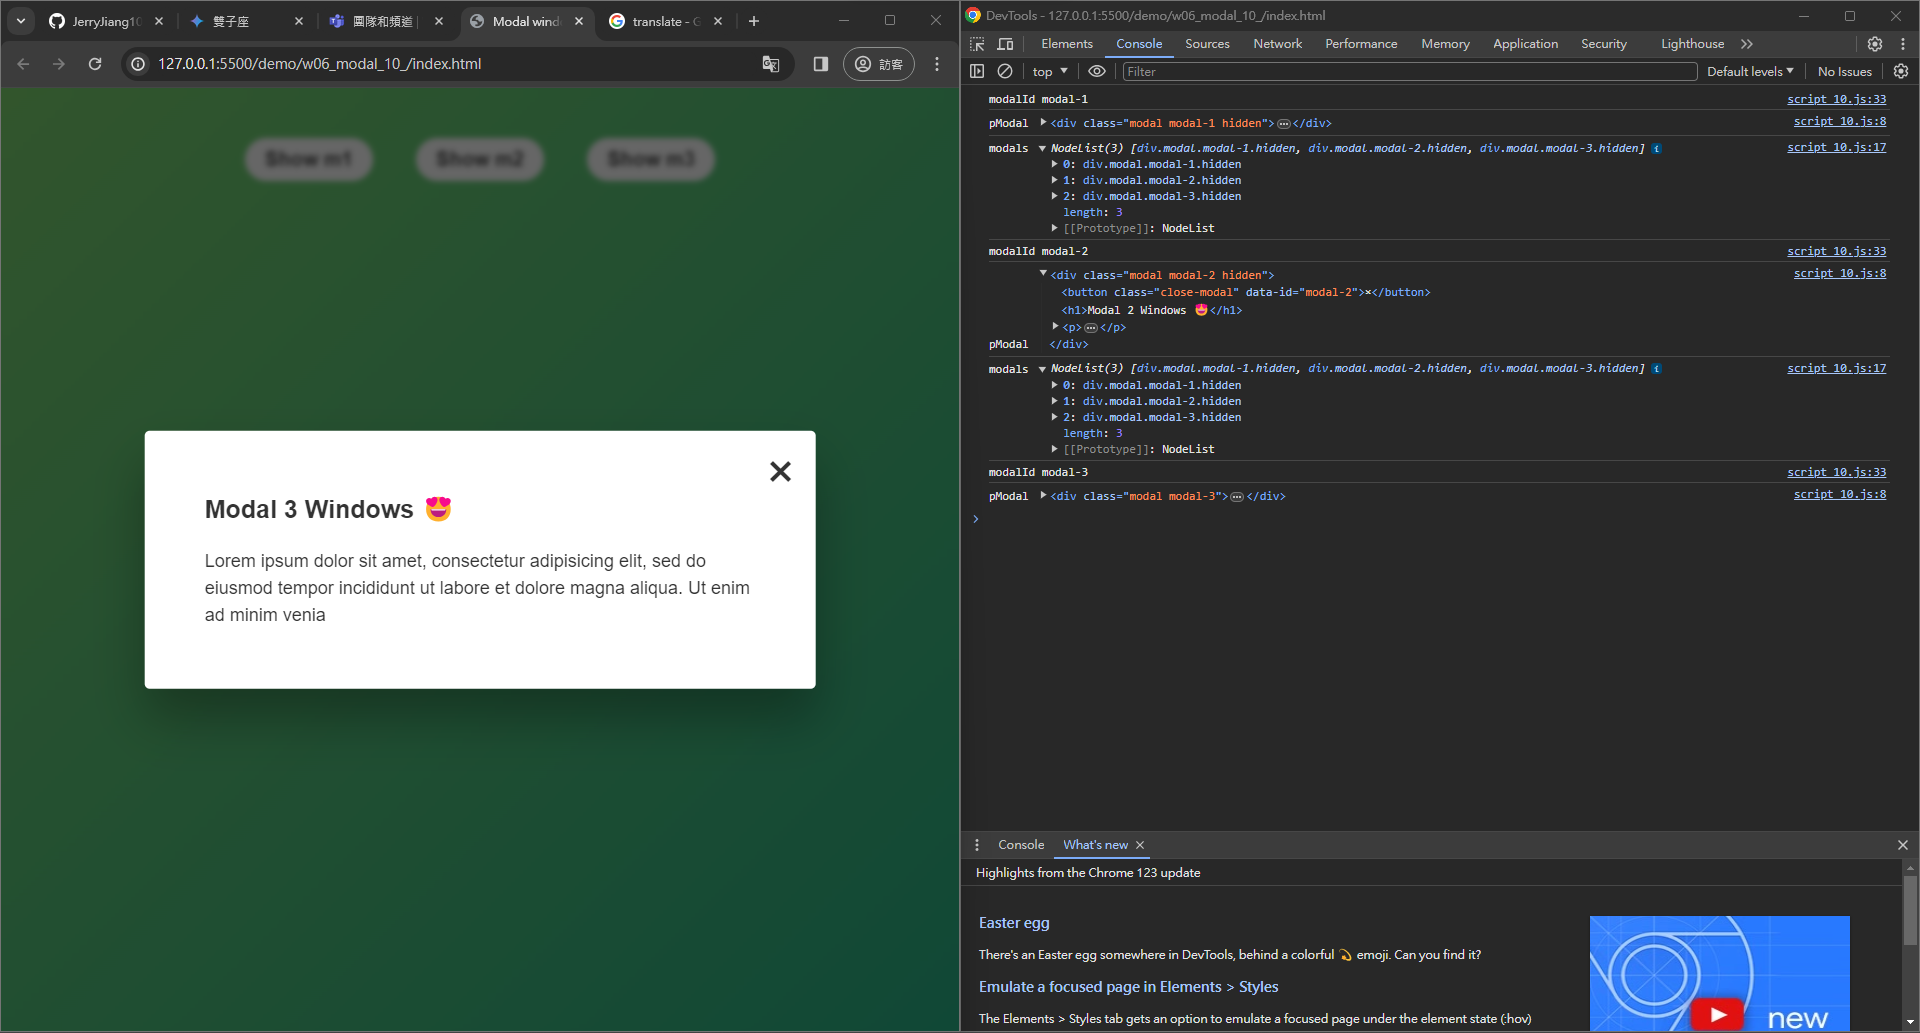
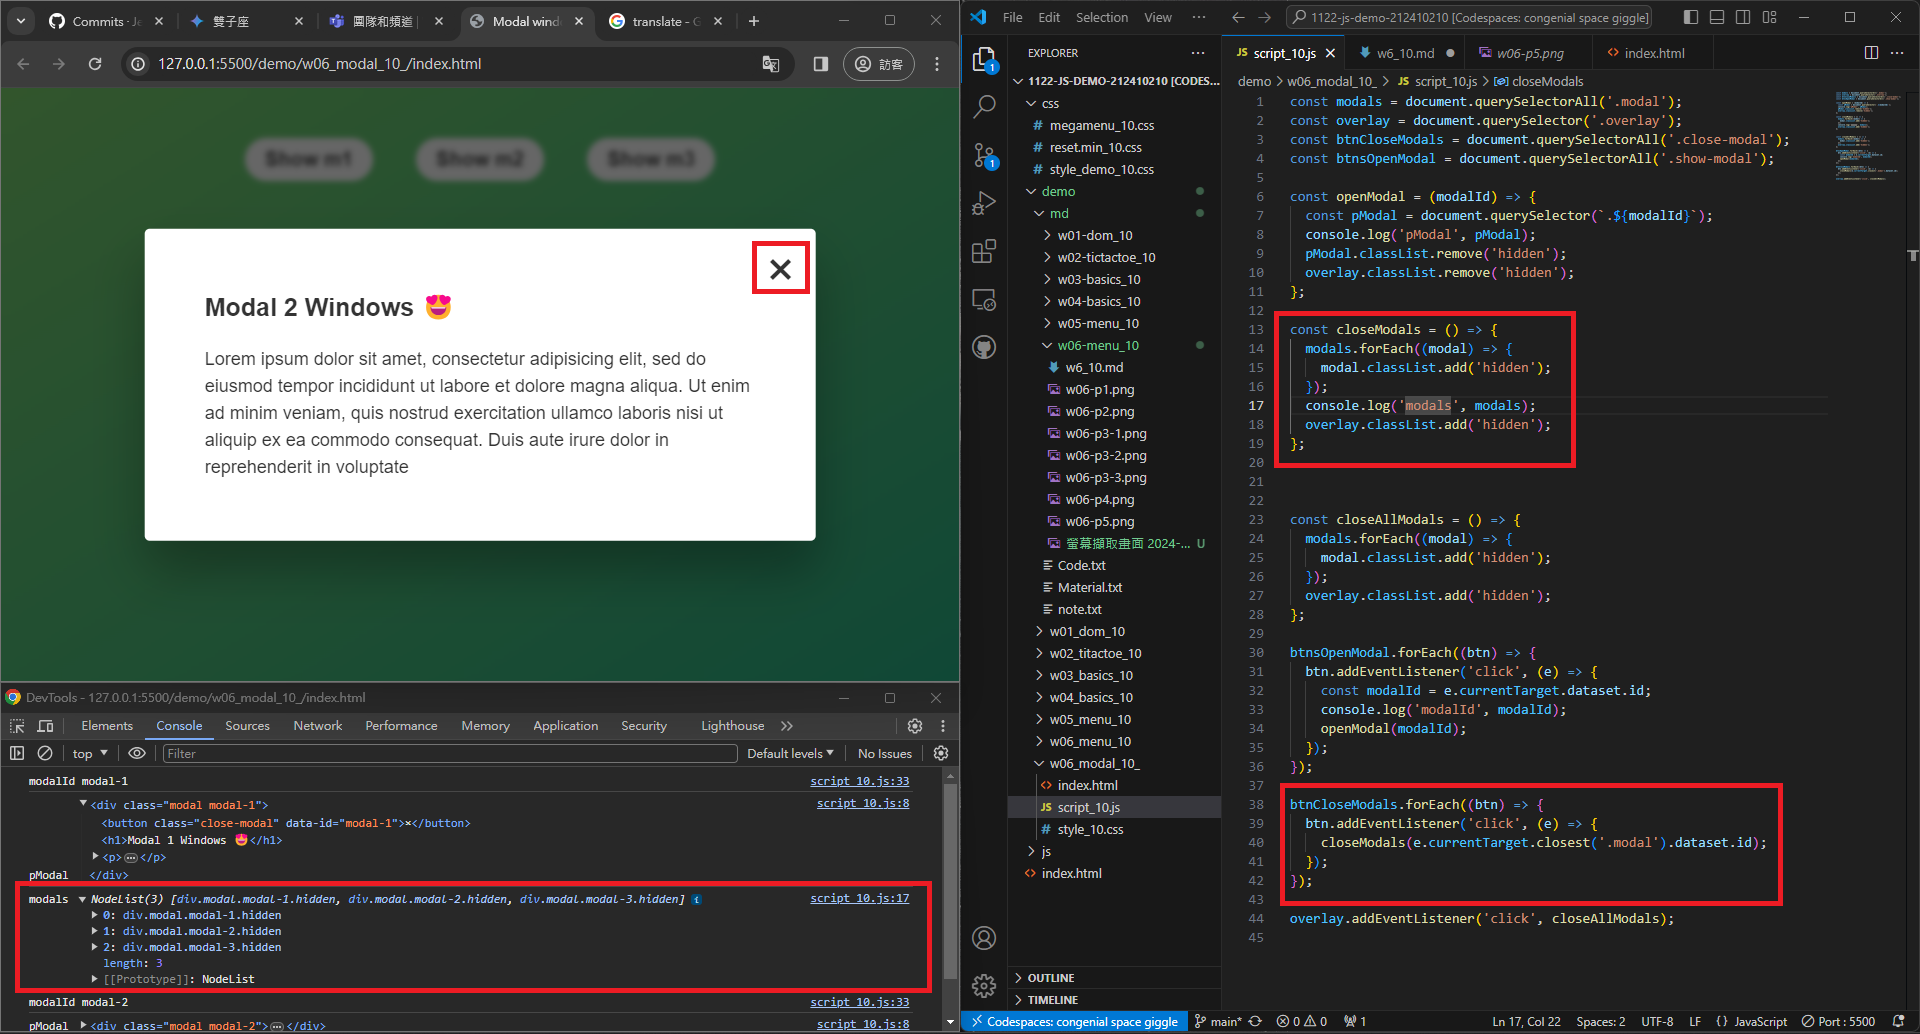
W06-P6: git logs for W06

diff --git a/demo/md/w06-menu_10/w6_10.md b/demo/md/w06-menu_10/w6_10.md
@@ -79,12 +79,15 @@ c0f6db3 “JerryJiang1015”        Thu Mar 28 19:58:28 2024 +0800  W06-P1: Crea
 
 ```
 
-$ git log --pretty=format:"%h%x09%an%x09%ad%x09%s" --after="2024-03-27"
+$ git log --pretty=format:"%h%x09%
+an%x09%ad%x09%s" --after="2024-03-27"
+b9865fe JerryJiang1015  Sat Mar 30 10:14:43 2024 +0000  W06-P5: implement close modals
+1ebba30 JerryJiang1015  Sat Mar 30 09:46:35 2024 +0800  Update index.html
+fc9adbf “JerryJiang1015”        Thu Mar 28 22:04:17 2024 +0800  upload
+7e5698f “JerryJiang1015”        Thu Mar 28 22:03:03 2024 +0800  W06-P4: implement open modals
 317a47a “JerryJiang1015”        Thu Mar 28 20:55:53 2024 +0800  W06-P3: implement filter buttons
-9a9046a “JerryJiang1015”        Thu Mar 28 20:25:06 2024 +0800  W06-P2: Display Menu
-buttons from categories array
+9a9046a “JerryJiang1015”        Thu Mar 28 20:25:06 2024 +0800  W06-P2: Display Menu buttons from categories array
 c0f6db3 “JerryJiang1015”        Thu Mar 28 19:58:28 2024 +0800  W06-P1: Create categories dynamically from data_10.js
-
 ```
 
 ### W06-P6: git logs for W06
